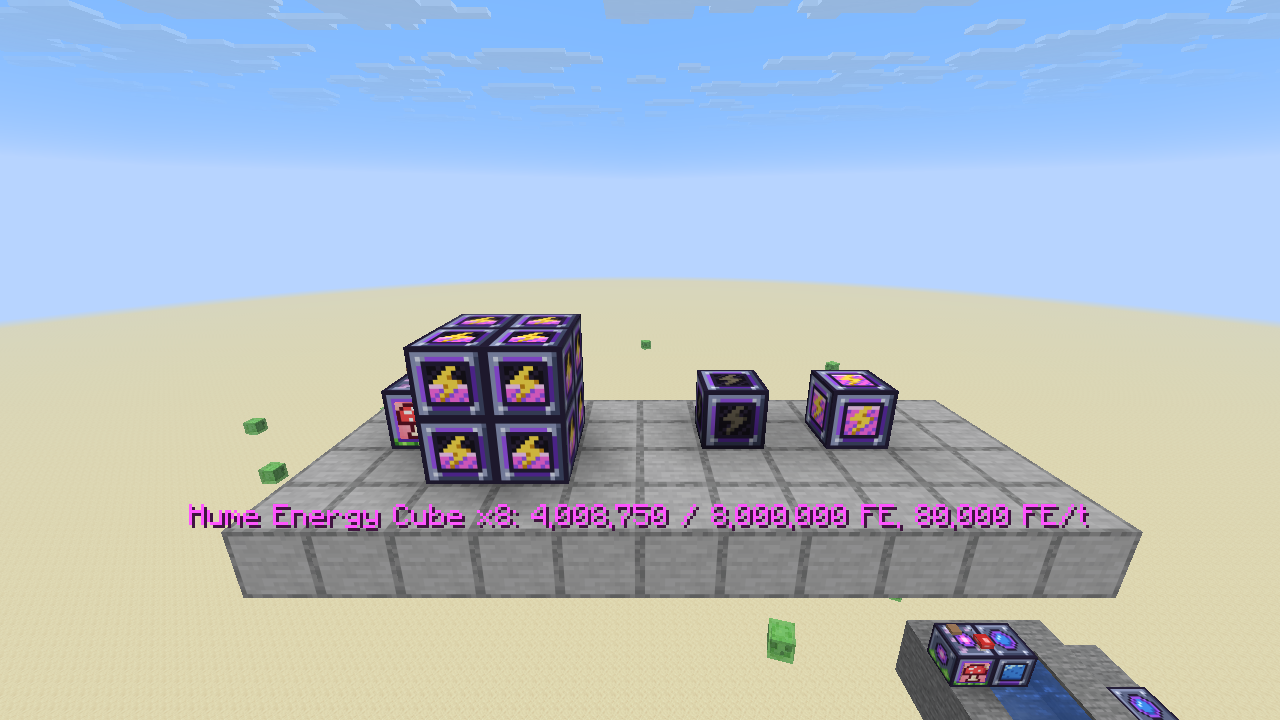
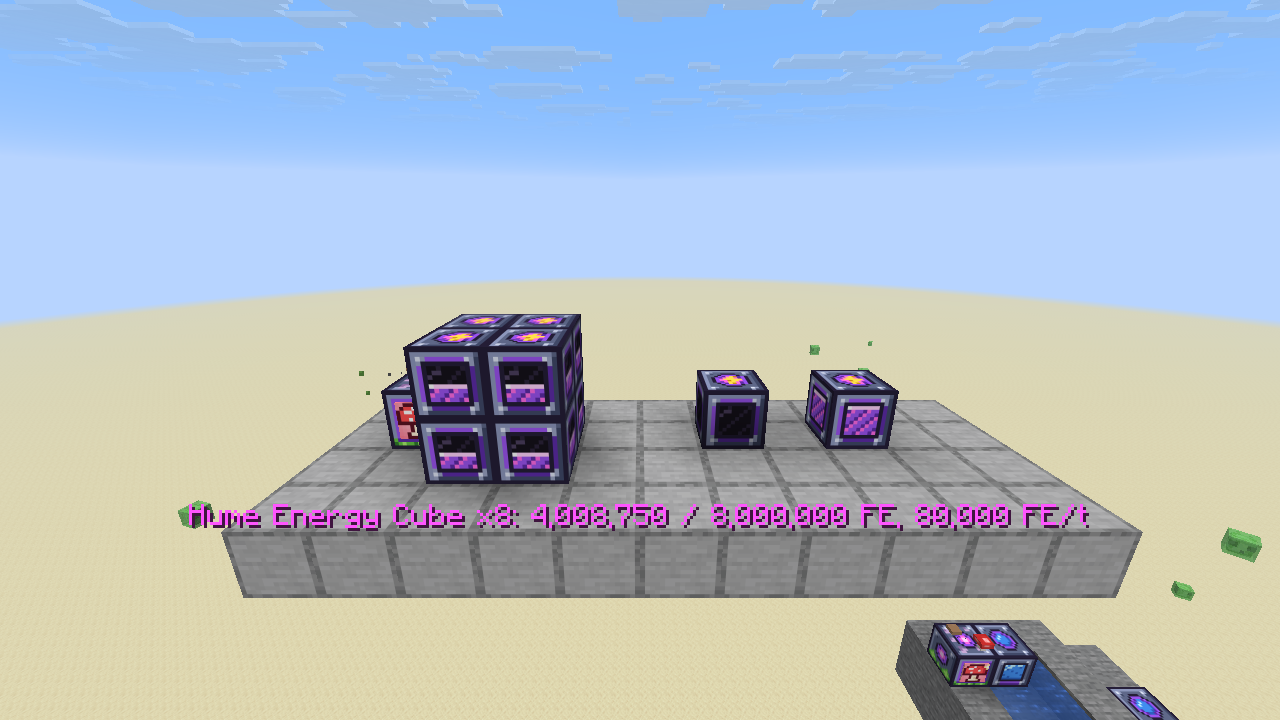
Animated, reservoir-style charge windows on the Hume Energy Cube
Each side now has a glass window, like the Fluid Reservoir's, that fills
in eighths with animated energy (bands swirling upward and a shimmering
surface line) as the group charges. The bolt moves to a purple port on
the top and bottom. The charge property goes 0..8 (0 only when empty,
8 only when full) and the light level follows it. A new GameTest checks
the levels.

Claude-Session: https://claude.ai/code/session_012iurxobutw9xMP3SqHHLFE

diff --git a/tools/sheep/generate_textures.py b/tools/sheep/generate_textures.py
@@ -1354,9 +1354,14 @@ def generate_reservoir_gui():
 
 
 # ---------------------------------------------------------------------------
-# Hume Energy Cube: the cartoon casing with a purple energy window that fills with charge (0..4) and a bolt.
+# Hume Energy Cube: like the Fluid Reservoir, a glass window on each side shows how full the group is, here in
+# eight steps (one per window row) with the energy animated: it swirls upward and a bright surface line shimmers.
+# The top and bottom carry a purple port with the energy bolt.
 # ---------------------------------------------------------------------------
-CUBE_FRAME = [
+CUBE_LEVELS = 8
+CUBE_FRAMES = 4
+
+CUBE_SIDE = [  # '.' is the 8x8 window
     "OOOOOOOOOOOOOOOO",
     "OHHHHHHHHHHHHHMO",
     "OHBbPPPPPPPPBbSO",
@@ -1374,41 +1379,65 @@ CUBE_FRAME = [
     "OHbSSSSSSSSSbSSO",
     "OOOOOOOOOOOOOOOO",
 ]
-CUBE_BOLT = [  # 8x8, drawn over the window
-    "....EE..",
-    "...EE...",
-    "..EEe...",
-    ".EEEEEe.",
-    "...eEE..",
-    "...EE...",
-    "..Ee....",
-    "..e.....",
+
+CUBE_TOP = [  # purple port with the energy bolt
+    "OOOOOOOOOOOOOOOO",
+    "OHHHHHHHHHHHHHMO",
+    "OHBbMMMMMMMMBbSO",
+    "OHbSMMOOOOMMbSSO",
+    "OHMMMOPPPPOMMMSO",
+    "OHMMOPpgEepPOMSO",
+    "OHMOPpgEEgpPOMSO",
+    "OHMOPgEEEEEPOMSO",
+    "OHMOPggeEEgPOMSO",
+    "OHMOPpgEEgpPOMSO",
+    "OHMMOPpEegpPOMSO",
+    "OHMMMOPPPPOMMMSO",
+    "OHMMMMOOOOMMMMSO",
+    "OHBbMMMMMMMMBbSO",
+    "OHbSSSSSSSSSbSSO",
+    "OOOOOOOOOOOOOOOO",
 ]
 
+ENERGY_DEEP, ENERGY_MID, ENERGY_LIGHT = hexc("#5c2aa6"), hexc("#9a52f0"), hexc("#ff6ae6")
+ENERGY_SURFACE, ENERGY_SPARK = hexc("#ffd2fb"), hexc("#ffffff")
 
-def energy_cube(charge):
-    img = grid(CUBE_FRAME, CARTOON)
-    filled = charge * 2
+
+def cube_side_frame(level, frame):
+    img = grid(CUBE_SIDE, CARTOON)
     for y in range(4, 12):
         for x in range(4, 12):
-            depth = y - (12 - filled)
+            depth = y - (12 - level)          # 0 at the surface row
             if depth < 0:
                 c = CARTOON["K"] if (x + y) % 5 else CARTOON["k"]
             elif depth == 0:
-                c = CARTOON["G"]
+                c = ENERGY_SPARK if (x + frame * 2) % 8 == 0 else ENERGY_SURFACE
             else:
-                c = CARTOON["g"] if (x + y) % 3 else CARTOON["P"]
+                # diagonal bands that drift upward one row per frame
+                band = (x + y + frame) % 4
+                c = (ENERGY_LIGHT, ENERGY_MID, ENERGY_MID, ENERGY_DEEP)[band]
             img.putpixel((x, y), c)
-    bolt = {"E": CARTOON["E"], "e": CARTOON["e"]} if charge else {"E": hexc("#6b6250"), "e": hexc("#4a4436")}
-    grid(CUBE_BOLT, bolt, img, 4, 4)
+    # glass glint, over the empty glass only
+    for (x, y) in ((5, 5), (4, 6), (6, 5)):
+        if y < 12 - level:
+            img.putpixel((x, y), hexc("#4a3d5c"))
     return img
 
 
 def generate_energy_cube():
-    for rows in (CUBE_FRAME, CUBE_BOLT):
-        assert all(len(r) == len(rows[0]) for r in rows)
-    for charge in range(5):
-        energy_cube(charge).save(out(f"block/hume_energy_cube_{charge}.png"))
+    for rows in (CUBE_SIDE, CUBE_TOP):
+        assert len(rows) == 16 and all(len(r) == 16 for r in rows)
+    for name in os.listdir(out("block")):
+        if name.startswith("hume_energy_cube_"):
+            os.remove(out("block/" + name))
+    for level in range(CUBE_LEVELS + 1):
+        strip = Image.new("RGBA", (16, 16 * CUBE_FRAMES), CLEAR)
+        for f in range(CUBE_FRAMES):
+            strip.paste(cube_side_frame(level, f), (0, f * 16))
+        strip.save(out(f"block/hume_energy_cube_side_{level}.png"))
+        with open(out(f"block/hume_energy_cube_side_{level}.png.mcmeta"), "w") as fh:
+            fh.write('{\n  "animation": {\n    "frametime": 4,\n    "interpolate": true\n  }\n}\n')
+    grid(CUBE_TOP, CARTOON).save(out("block/hume_energy_cube_top.png"))
 
 
 def main():

diff --git a/tools/sheep/generate_data.py b/tools/sheep/generate_data.py
@@ -112,7 +112,7 @@ def item_models():
     write(os.path.join(ASSETS, "items", "automatic_shears.json"),
           {"model": {"type": "minecraft:model", "model": f"{MOD}:block/automatic_shears"}})
     write(os.path.join(ASSETS, "items", "hume_energy_cube.json"),
-          {"model": {"type": "minecraft:model", "model": f"{MOD}:block/hume_energy_cube_3"}})
+          {"model": {"type": "minecraft:model", "model": f"{MOD}:block/hume_energy_cube_6"}})
     # The item shows the reservoir full of water.
     write(os.path.join(ASSETS, "items", "fluid_reservoir.json"),
           {"model": {"type": "minecraft:model", "model": f"{MOD}:block/fluid_reservoir_4"}})
@@ -171,11 +171,20 @@ def block_models():
                 "down": f"{MOD}:block/fluid_reservoir_bottom",
             },
         })
-    for charge in range(5):
-        write(os.path.join(ASSETS, "models", "block", f"hume_energy_cube_{charge}.json"),
-              {"parent": "minecraft:block/cube_all", "textures": {"all": f"{MOD}:block/hume_energy_cube_{charge}"}})
+    # Hume Energy Cube: one model per charge level (0..8), the side windows showing how full the group is.
+    models_dir = os.path.join(ASSETS, "models", "block")
+    for name in os.listdir(models_dir):
+        if name.startswith("hume_energy_cube_"):
+            os.remove(os.path.join(models_dir, name))
+    for charge in range(9):
+        side = f"{MOD}:block/hume_energy_cube_side_{charge}"
+        write(os.path.join(models_dir, f"hume_energy_cube_{charge}.json"), {
+            "parent": "minecraft:block/cube_bottom_top",
+            "textures": {"particle": side, "side": side, "top": f"{MOD}:block/hume_energy_cube_top",
+                         "bottom": f"{MOD}:block/hume_energy_cube_top"},
+        })
     write(os.path.join(ASSETS, "blockstates", "hume_energy_cube.json"),
-          {"variants": {f"charge={c}": {"model": f"{MOD}:block/hume_energy_cube_{c}"} for c in range(5)}})
+          {"variants": {f"charge={c}": {"model": f"{MOD}:block/hume_energy_cube_{c}"} for c in range(9)}})
     write(os.path.join(ASSETS, "blockstates", "fluid_reservoir.json"),
           {"variants": {f"fill={fill}": {"model": f"{MOD}:block/fluid_reservoir_{fill}"} for fill in range(5)}})
     write(os.path.join(ASSETS, "models", "block", "creative_generator.json"),

diff --git a/src/main/java/com/jax3/barelyfunctionalcontraptions/sheep/gametest/ModGameTests.java b/src/main/java/com/jax3/barelyfunctionalcontraptions/sheep/gametest/ModGameTests.java
@@ -114,6 +114,7 @@ public final class ModGameTests {
         TESTS.put("energy_cube_break_splits_group", ModGameTests::cubeBreakSplits);
         TESTS.put("energy_cube_pushes_into_machines", ModGameTests::cubePushes);
         TESTS.put("energy_cube_max_group_size", ModGameTests::cubeMaxGroup);
+        TESTS.put("energy_cube_window_shows_charge", ModGameTests::cubeWindow);
         RELOAD_TESTS.put("generated_resource_keeps_infusion", ModGameTests::generatedResourceKeepsInfusion);
         TESTS.forEach((name, fn) -> FUNCTIONS.register(name, () -> fn));
         RELOAD_TESTS.forEach((name, fn) -> FUNCTIONS.register(name, () -> fn));
@@ -1247,5 +1248,22 @@ public final class ModGameTests {
             ModConfigs.SERVER.energyCubeMaxGroupSize.set(old);
         }
         h.succeed();
+    }
+
+    /** The side windows follow the group's fill in eighths: empty 0, a quarter 2, half 4, nearly full 7, full 8. */
+    private static void cubeWindow(GameTestHelper h) {
+        var charge = com.jax3.barelyfunctionalcontraptions.sheep.blocks.EnergyCubeBlock.CHARGE;
+        int[][] cases = {{0, 0}, {250_000, 2}, {500_000, 4}, {990_000, 7}, {1_000_000, 8}, {1_000, 1}};
+        BlockPos[] spots = new BlockPos[cases.length];
+        for (int i = 0; i < cases.length; i++) {
+            spots[i] = new BlockPos(i, 1, i % 2 == 0 ? 1 : 4); // apart, so each is its own group
+            cube(h, spots[i]).storage().set(cases[i][0]);
+        }
+        h.succeedWhen(() -> {
+            for (int i = 0; i < cases.length; i++) {
+                int expected = cases[i][1];
+                h.assertBlockProperty(spots[i], charge, expected);
+            }
+        });
     }
 }

diff --git a/src/main/java/com/jax3/barelyfunctionalcontraptions/sheep/blockentity/EnergyCubeGroup.java b/src/main/java/com/jax3/barelyfunctionalcontraptions/sheep/blockentity/EnergyCubeGroup.java
@@ -102,11 +102,13 @@ public final class EnergyCubeGroup {
         return (int) Math.min(Integer.MAX_VALUE, rate);
     }
 
-    /** 0..4 for the charge shown on the blocks. */
+    /** 0..8 for the charge shown in the side windows: 0 only when empty, 8 only when full. */
     public int chargeLevel() {
         long capacity = capacity(), amount = amount();
         if (amount <= 0 || capacity <= 0) return 0;
-        return (int) Math.max(1, Math.min(4, Math.round(amount * 4.0 / capacity)));
+        if (amount >= capacity) return EnergyCubeBlock.MAX_CHARGE;
+        int steps = EnergyCubeBlock.MAX_CHARGE;
+        return (int) Math.max(1, Math.min(steps - 1, Math.round(amount * (double) steps / capacity)));
     }
 
     public int insert(int amount, TransactionContext transaction) {

diff --git a/src/main/java/com/jax3/barelyfunctionalcontraptions/sheep/blocks/EnergyCubeBlock.java b/src/main/java/com/jax3/barelyfunctionalcontraptions/sheep/blocks/EnergyCubeBlock.java
@@ -28,8 +28,9 @@ import org.jspecify.annotations.Nullable;
  * touches into one bigger battery. Right-click to see the group's charge.
  */
 public class EnergyCubeBlock extends BaseEntityBlock {
-    /** How full the cube's group is, 0..4, drawn as the energy level in its window. */
-    public static final IntegerProperty CHARGE = IntegerProperty.create("charge", 0, 4);
+    /** How full the cube's group is, 0..8 (one step per window row), drawn as the energy level in its side windows. */
+    public static final int MAX_CHARGE = 8;
+    public static final IntegerProperty CHARGE = IntegerProperty.create("charge", 0, MAX_CHARGE);
 
     public EnergyCubeBlock(Properties properties) {
         super(properties);

diff --git a/src/main/java/com/jax3/barelyfunctionalcontraptions/sheep/registry/ModBlocks.java b/src/main/java/com/jax3/barelyfunctionalcontraptions/sheep/registry/ModBlocks.java
@@ -47,7 +47,7 @@ public final class ModBlocks {
                     .strength(3.5F, 6.0F)
                     .requiresCorrectToolForDrops()
                     .sound(SoundType.METAL)
-                    .lightLevel(state -> state.getValue(com.jax3.barelyfunctionalcontraptions.sheep.blocks.EnergyCubeBlock.CHARGE) * 2));
+                    .lightLevel(state -> state.getValue(com.jax3.barelyfunctionalcontraptions.sheep.blocks.EnergyCubeBlock.CHARGE)));
 
     /** Creative-only infinite FE source: unbreakable in survival, no recipe. */
     public static final DeferredBlock<CreativeGeneratorBlock> CREATIVE_GENERATOR = REGISTER.registerBlock("creative_generator",

diff --git a/TESTING.md b/TESTING.md
@@ -8,7 +8,7 @@ Environment for the results below: Minecraft 26.3, NeoForge 26.3.0.101, JEI 31.1
 |---|---|---|
 | Build | `./gradlew build` | ✅ BUILD SUCCESSFUL, produces `build/libs/barelyfunctionalcontraptions-1.0.0.jar` |
 | Unit tests | `./gradlew test` | ✅ 36/36 passed (31 Mycelial Power + 5 Resourceful Sheep) |
-| In-world GameTests | `./gradlew runGameTestServer` | ✅ **All 69 required tests passed** on a dedicated-server GameTest server: 15 Mycelial Power, 42 Resourceful Sheep, 11 integration, 1 NeoForge built-in |
+| In-world GameTests | `./gradlew runGameTestServer` | ✅ **All 70 required tests passed** on a dedicated-server GameTest server: 15 Mycelial Power, 43 Resourceful Sheep, 11 integration, 1 NeoForge built-in |
 | Real client | `./gradlew runClient -PscreenshotHarness` | ✅ Loads with JEI and Jade, with no errors or warnings from the mod in the log. The 21 screenshots are in [`docs/screenshots/`](docs/screenshots) |
 
 ### Integration GameTests (`com.jax3.barelyfunctionalcontraptions.gametest.IntegrationGameTests`)
@@ -42,9 +42,10 @@ In the real client (`12_automatic_shears_gui.png`, `13_automatic_shears.png`): t
 | `energy_cube_break_splits_group` | With 100k/200k/300k FE in a row of three (600k total), the middle cube's item would keep its 200,000 FE. Breaking it leaves two single cubes with 100,000 and 300,000 FE. |
 | `energy_cube_pushes_into_machines` | A charged cube pushes FE into Automatic Shears touching it, and the total is conserved (what left the cubes is exactly what the shears hold). |
 | `energy_cube_max_group_size` | With `maxGroupSize = 2`, three cubes form groups of 2 and 1, and the group of 2 moves 20,000 FE/t. |
+| `energy_cube_window_shows_charge` | Separate cubes holding 0, 1,000, 250,000, 500,000, 990,000 and 1,000,000 FE show window levels 0, 1, 2, 4, 7 and 8. Any energy shows at least one row, and only a completely full group shows all 8. |
 | `integration_generator_charges_energy_cube` | A running Mycelial Generator charges two cubes, and a separator on their far side finishes iron wool on that power. |
 
-In the real client (`21_energy_cubes.png`): a 2x2x2 group charged by a generator shows half-full windows, and its right-click readout is *Hume Energy Cube x8: 4,008,750 / 8,000,000 FE, 80,000 FE/t*. A single empty cube has a dark window and a dim bolt; a single full one is full.
+In the real client (`21_energy_cubes.png`): a 2x2x2 group charged by a generator shows its glass windows half full of animated energy, and its right-click readout is *Hume Energy Cube x8: 4,008,750 / 8,000,000 FE, 80,000 FE/t*. A single empty cube has an empty window; a single full one is full to the top.
 
 ### Wireless power with the Mycelium Wrench
 

diff --git a/README.md b/README.md
@@ -260,7 +260,7 @@ A Forge Energy battery. FE goes **in and out on every side**, and **cubes that t
 - **A group of N touching cubes** (faces touching, in any shape) has **N x** the buffer and **N x** the transfer rate. A 2x2x2 block of 8 cubes holds 8,000,000 FE and moves 80,000 FE/t. Every cube in the group shares the same energy, so you can feed one end and take power out of the other.
 - **Output:** the group **pushes energy into any machine or cable touching it** (`autoOutput`), up to its transfer rate each tick. Machines and cables can also pull from it, and any generator or cable can charge it. It never pushes into other cubes.
 - **Breaking a cube** splits the group if it was holding it together. Each cube keeps its own share of the energy, and a broken cube keeps its share in the item (shown in its tooltip), so no energy is lost.
-- **Window:** the purple window on every side shows how full the whole group is, and the cubes glow brighter as they charge. **Right-click** a cube for its group's size, stored energy, buffer and transfer rate. A comparator reads how full the group is.
+- **Windows:** like the Fluid Reservoir, each side has a glass window that fills with swirling purple energy as the group charges. It shows the whole group's fill in eighths (one window row each): empty only at 0 FE and full only at 100%. The top and bottom have a purple port with the energy bolt, and the cubes glow brighter as they charge. **Right-click** a cube for its group's size, stored energy, buffer and transfer rate. A comparator reads how full the group is.
 - **Wireless:** a Mycelial Generator can charge a cube from a distance with the Mycelium Wrench, like the other machines.
 - Groups are limited to 64 cubes (`maxGroupSize`); extra cubes form another group. Mine it with a stone pickaxe or better.
 
